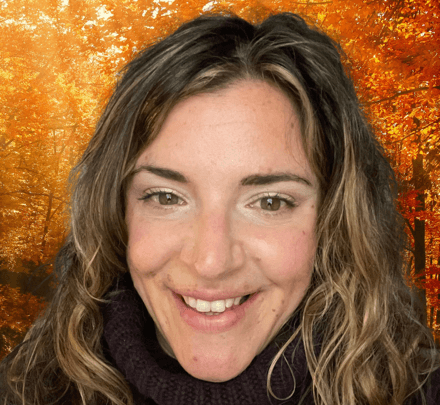
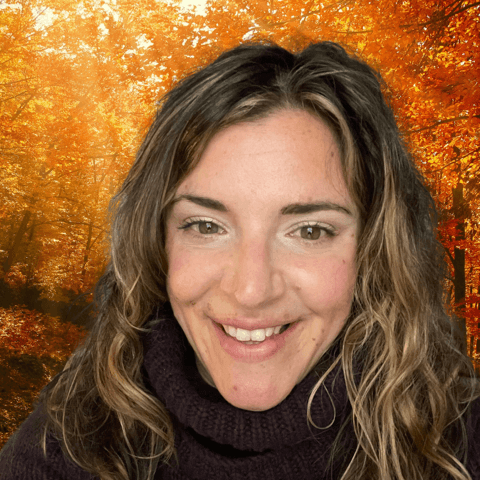
Make pics square

diff --git a/_site/team/index.html b/_site/team/index.html
@@ -82,13 +82,13 @@
   <h1>Our Team</h1>
   <div class="team-grid">
     <div>
-  <img src="/assets/images/denise.jpg" alt="Denise Potter">
+  <img src="/assets/images/denise.png" alt="Denise Potter">
   <h2>Denise Potter, RDN, CSP, CDE</h2>
   <p>Denise has been a Registered Dietitian Nutritionist (RDN) for 31 years. For the past 15 years she has focused on Ketogenic Medical Nutrition Therapy. She has been privileged to speak to, train and educate professionals and individuals around the globe on therapeutic ketogenic therapies. She strives to provide client-centered, personalized therapy, counseling, and education. Denise has a passion for helping underserved populations benefit from the ketogenic diet. She authored <a href="https://www.amazon.com/dp/164152961X/ref=cm_sw_em_r_mt_dp_U_3DWYDbP57JYD4" target="_blank"><em>The Migraine Diet: A Ketogenic Meal Plan for Headache Relief</em></a>. <span class="nobreak"><a href="/denise_cv">View CV</a></span></p>
 </div>
 
     <div>
-  <img src="/assets/images/lisa.jpg" alt="Lisa Vanatta">
+  <img src="/assets/images/lisa.png" alt="Lisa Vanatta">
   <div>
     <h2>Lisa Vanatta, MS, RDN, CSP</h2>
     <p>Lisa has been a ketogenic pediatric clinical dietitian at Barrow Neurological institute at Phoenix Children’s Hospital (PCH) for over 20 years. There she has primarily focused on Newborn Intensive Care, gaining experience in cystic fibrosis, bronchopulmonary dysplasia, and renal disease and is their ketogenic program coordinator. She co-authored <a href="https://www.bethzupeckania.com/product-page/pocket-guide-ketogenic-diet-therapies-for-neurological-disorders" target="_blank"><em>Ketogenic Diet Therapies for Neurological Disorders Pocket Guide</em></a>. <span class="nobreak"><a href="/lisa_cv">View CV</a></span></p>
@@ -96,15 +96,15 @@
 </div>
 
     <div>
-  <img src="/assets/images/monica.jpg" alt="Monica McChesney">
+  <img src="/assets/images/monica.png" alt="Monica McChesney">
   <h2>Monica McChesney MS, RD, LD</h2>
   <p>Monica has been a pediatric clinical dietitian at Children's of Alabama for the past 8 years. She has worked in a variety of settings including inpatient rehabilitation and gastroenterology, but her primary focus is in neurology, specializing in the ketogenic diet. She has worked with a variety of neurological disorders, including epilepsy, glucose transporter type 1 deficiency syndrome, pyruvate dehydrogenase complex deficiency, along with many others. She has a true passion for the diet, as well as for the patients and families she serves. <span class="nobreak"><a href="/assets/files/monica_cv.pdf" target="_blank">View CV</a></span></p>
 </div>
 
     <div>
-  <img src="/assets/images/christine.jpg" alt="Christine Wheeler">
+  <img src="/assets/images/christine.png" alt="Christine Wheeler">
   <h2>Christine Wheeler MS, RDN, CSP</h2>
-  <p>Christi is a Registered Dietitian with board certification in pediatric nutrition. She has worked in the nutritional management of children and adults with a variety of healthcare concerns, specializing in ketogenic therapies since 2010. She is passionate about optimizing health with nutrition and other lifestyle factors. Christi was the Primary Investigator and author of <em>Efficacy and tolerability of a whey-based, medium-chain triglyceride enhanced ketogenic formula in children with refractory epilepsy: A retrospective study</em>. <span class="nobreak"><a href="/assets/files/christine_cv.pdf" target="_blank">View CV</a></span></p>
+  <p>Christine is a Registered Dietitian with board certification in pediatric nutrition. She has worked in the nutritional management of children and adults with a variety of healthcare concerns, specializing in ketogenic therapies since 2010. She is passionate about optimizing health with nutrition and other lifestyle factors. Christi was the Primary Investigator and author of <em>Efficacy and tolerability of a whey-based, medium-chain triglyceride enhanced ketogenic formula in children with refractory epilepsy: A retrospective study</em>. <span class="nobreak"><a href="/assets/files/christine_cv.pdf" target="_blank">View CV</a></span></p>
 </div>
 
     <div>
@@ -116,25 +116,25 @@
     <div>
   <img src="/assets/images/diana.png" alt="Diana Lehner-Gulotta">
   <h2>Diana Lehner-Gulotta, RDN, CNSC</h2>
-  <p>Diana is a registered dietitian at the University of Virginia Health System specializing in ketogenic diets for epilepsy and the nutritional care of pediatric neurology patients. She also has experience implementing ketogenic diets for adolescents and adults with multiple sclerosis, resulting in several peer-reviewed publications. As a Certified Nutrition Support Clinician, she enjoys working with medically complex clients. She has served consecutively on the board of both her local and state chapters of the Academy of Nutrition and Dietetics. <span class="nobreak"><a href="/assets/files/diana_cv.pdf">View CV</a></span></p>
+  <p>Diana is a registered dietitian at the University of Virginia Health System specializing in ketogenic diets for epilepsy and the nutritional care of pediatric neurology patients. She also has experience implementing ketogenic diets for adolescents and adults with multiple sclerosis, resulting in several peer-reviewed publications. As a Certified Nutrition Support Clinician, she enjoys working with medically complex clients. She has served consecutively on the board of both her local and state chapters of the Academy of Nutrition and Dietetics. <span class="nobreak"><a href="/assets/files/diana_cv.pdf" target="_blank">View CV</a></span></p>
 </div>
 
     <div>
   <img src="/assets/images/erin.png" alt="Erin K. Waranch">
   <h2>Erin K. Waranch, MS, RDN, LD</h2>
-  <p>Erin has been a pediatric clinical dietitian for the past 7 years. She specializes in ketogenic diet therapy for conditions like pediatric epilepsy, infantile spasms, glut-1 deficiency and pyruvate dehydrogenase deficiency. Erin enjoys individualizing nutrition plans for her patients to help them be as successful as possible. She has a passion for teaching people about how nutrition can improve long term health outcomes. <span class="nobreak"><a href="/assets/files/erin_cv.pdf">View CV</a></span></p>
+  <p>Erin has been a pediatric clinical dietitian for the past 7 years. She specializes in ketogenic diet therapy for conditions like pediatric epilepsy, infantile spasms, glut-1 deficiency and pyruvate dehydrogenase deficiency. Erin enjoys individualizing nutrition plans for her patients to help them be as successful as possible. She has a passion for teaching people about how nutrition can improve long term health outcomes. <span class="nobreak"><a href="/assets/files/erin_cv.pdf" target="_blank">View CV</a></span></p>
 </div>
 
     <div>
   <img src="/assets/images/jaclyn.png" alt="Jaclyn A. Makovich">
   <h2>Jaclyn A. Makovich, RD, LD</h2>
-  <p>Jaclyn has been a Clinical Dietitian at the Medical University of South Carolina since 2016 and a Registered Dietitian for 10 years. She has provided nutrition care in both adult and pediatric in different specialty areas such as ketogenic therapy, gastroenterology, nutrition support and more. She now works solely with the ketogenic therapy in pediatric and adult patients and loves to see the improvements in peoples’ quality of life.  Jaclyn specializes in working with patients and their families to personalize ketogenic therapy to meet their lifestyle and individual needs. <span class="nobreak"><a href="/assets/files/jaclyn_cv.pdf">View CV</a></span></p>
+  <p>Jaclyn has been a Clinical Dietitian at the Medical University of South Carolina since 2016 and a Registered Dietitian for 10 years. She has provided nutrition care in both adult and pediatric in different specialty areas such as ketogenic therapy, gastroenterology, nutrition support and more. She now works solely with the ketogenic therapy in pediatric and adult patients and loves to see the improvements in peoples’ quality of life.  Jaclyn specializes in working with patients and their families to personalize ketogenic therapy to meet their lifestyle and individual needs. <span class="nobreak"><a href="/assets/files/jaclyn_cv.pdf" target="_blank">View CV</a></span></p>
 </div>
 
     <div>
   <img src="/assets/images/lauren.png" alt="Lauren Kronisch">
   <h2>Lauren Kronisch, MS, RDN, LD</h2>
-  <p>Lauren been has specialized in providing Ketogenic Medical Nutrition Therapy for over eight years treating people of all ages with conditions including epilepsy, pyruvate dehydrogenase deficiency complex, glucose transport deficiency syndrome, Rett syndrome and related disorders. For the last six years, she has worked in a top 10 children's hospital in the ketogenic diet clinic setting as well as in various hospital units, including intensive care and neurology intensive care. She also has extensive experience in treating children with food allergies. <span class="nobreak"><a href="/assets/files/lauren_cv.pdf">View CV</a></span></p>
+  <p>Lauren been has specialized in providing Ketogenic Medical Nutrition Therapy for over eight years treating people of all ages with conditions including epilepsy, pyruvate dehydrogenase deficiency complex, glucose transport deficiency syndrome, Rett syndrome and related disorders. For the last six years, she has worked in a top 10 children's hospital in the ketogenic diet clinic setting as well as in various hospital units, including intensive care and neurology intensive care. She also has extensive experience in treating children with food allergies. <span class="nobreak"><a href="/assets/files/lauren_cv.pdf" target="_blank">View CV</a></span></p>
 </div>
 
   </div>

diff --git a/_includes/christine.html b/_includes/christine.html
@@ -1,5 +1,5 @@
 <div>
-  <img src="{{ '/assets/images/christine.jpg' | relative_url }}" alt="Christine Wheeler">
+  <img src="{{ '/assets/images/christine.png' | relative_url }}" alt="Christine Wheeler">
   <h2>Christine Wheeler MS, RDN, CSP</h2>
-  <p>Christi is a Registered Dietitian with board certification in pediatric nutrition. She has worked in the nutritional management of children and adults with a variety of healthcare concerns, specializing in ketogenic therapies since 2010. She is passionate about optimizing health with nutrition and other lifestyle factors. Christi was the Primary Investigator and author of <em>Efficacy and tolerability of a whey-based, medium-chain triglyceride enhanced ketogenic formula in children with refractory epilepsy: A retrospective study</em>. <span class="nobreak"><a href="{{ '/assets/files/christine_cv.pdf' | relative_url }}" target="_blank">View CV</a></span></p>
+  <p>Christine is a Registered Dietitian with board certification in pediatric nutrition. She has worked in the nutritional management of children and adults with a variety of healthcare concerns, specializing in ketogenic therapies since 2010. She is passionate about optimizing health with nutrition and other lifestyle factors. Christi was the Primary Investigator and author of <em>Efficacy and tolerability of a whey-based, medium-chain triglyceride enhanced ketogenic formula in children with refractory epilepsy: A retrospective study</em>. <span class="nobreak"><a href="{{ '/assets/files/christine_cv.pdf' | relative_url }}" target="_blank">View CV</a></span></p>
 </div>

diff --git a/_includes/jaclyn.html b/_includes/jaclyn.html
@@ -1,5 +1,5 @@
 <div>
   <img src="{{ '/assets/images/jaclyn.png' | relative_url }}" alt="Jaclyn A. Makovich">
   <h2>Jaclyn A. Makovich, RD, LD</h2>
-  <p>Jaclyn has been a Clinical Dietitian at the Medical University of South Carolina since 2016 and a Registered Dietitian for 10 years. She has provided nutrition care in both adult and pediatric in different specialty areas such as ketogenic therapy, gastroenterology, nutrition support and more. She now works solely with the ketogenic therapy in pediatric and adult patients and loves to see the improvements in peoples’ quality of life.  Jaclyn specializes in working with patients and their families to personalize ketogenic therapy to meet their lifestyle and individual needs. <span class="nobreak"><a href="{{ '/assets/files/jaclyn_cv.pdf' | relative_url }}">View CV</a></span></p>
+  <p>Jaclyn has been a Clinical Dietitian at the Medical University of South Carolina since 2016 and a Registered Dietitian for 10 years. She has provided nutrition care in both adult and pediatric in different specialty areas such as ketogenic therapy, gastroenterology, nutrition support and more. She now works solely with the ketogenic therapy in pediatric and adult patients and loves to see the improvements in peoples’ quality of life.  Jaclyn specializes in working with patients and their families to personalize ketogenic therapy to meet their lifestyle and individual needs. <span class="nobreak"><a href="{{ '/assets/files/jaclyn_cv.pdf' | relative_url }}" target="_blank">View CV</a></span></p>
 </div>

diff --git a/_includes/lauren.html b/_includes/lauren.html
@@ -1,5 +1,5 @@
 <div>
   <img src="{{ '/assets/images/lauren.png' | relative_url }}" alt="Lauren Kronisch">
   <h2>Lauren Kronisch, MS, RDN, LD</h2>
-  <p>Lauren been has specialized in providing Ketogenic Medical Nutrition Therapy for over eight years treating people of all ages with conditions including epilepsy, pyruvate dehydrogenase deficiency complex, glucose transport deficiency syndrome, Rett syndrome and related disorders. For the last six years, she has worked in a top 10 children's hospital in the ketogenic diet clinic setting as well as in various hospital units, including intensive care and neurology intensive care. She also has extensive experience in treating children with food allergies. <span class="nobreak"><a href="{{ '/assets/files/lauren_cv.pdf' | relative_url }}">View CV</a></span></p>
+  <p>Lauren been has specialized in providing Ketogenic Medical Nutrition Therapy for over eight years treating people of all ages with conditions including epilepsy, pyruvate dehydrogenase deficiency complex, glucose transport deficiency syndrome, Rett syndrome and related disorders. For the last six years, she has worked in a top 10 children's hospital in the ketogenic diet clinic setting as well as in various hospital units, including intensive care and neurology intensive care. She also has extensive experience in treating children with food allergies. <span class="nobreak"><a href="{{ '/assets/files/lauren_cv.pdf' | relative_url }}" target="_blank">View CV</a></span></p>
 </div>

diff --git a/_includes/diana.html b/_includes/diana.html
@@ -1,5 +1,5 @@
 <div>
   <img src="{{ '/assets/images/diana.png' | relative_url }}" alt="Diana Lehner-Gulotta">
   <h2>Diana Lehner-Gulotta, RDN, CNSC</h2>
-  <p>Diana is a registered dietitian at the University of Virginia Health System specializing in ketogenic diets for epilepsy and the nutritional care of pediatric neurology patients. She also has experience implementing ketogenic diets for adolescents and adults with multiple sclerosis, resulting in several peer-reviewed publications. As a Certified Nutrition Support Clinician, she enjoys working with medically complex clients. She has served consecutively on the board of both her local and state chapters of the Academy of Nutrition and Dietetics. <span class="nobreak"><a href="{{ '/assets/files/diana_cv.pdf' | relative_url }}">View CV</a></span></p>
+  <p>Diana is a registered dietitian at the University of Virginia Health System specializing in ketogenic diets for epilepsy and the nutritional care of pediatric neurology patients. She also has experience implementing ketogenic diets for adolescents and adults with multiple sclerosis, resulting in several peer-reviewed publications. As a Certified Nutrition Support Clinician, she enjoys working with medically complex clients. She has served consecutively on the board of both her local and state chapters of the Academy of Nutrition and Dietetics. <span class="nobreak"><a href="{{ '/assets/files/diana_cv.pdf' | relative_url }}" target="_blank">View CV</a></span></p>
 </div>

diff --git a/_includes/erin.html b/_includes/erin.html
@@ -1,5 +1,5 @@
 <div>
   <img src="{{ '/assets/images/erin.png' | relative_url }}" alt="Erin K. Waranch">
   <h2>Erin K. Waranch, MS, RDN, LD</h2>
-  <p>Erin has been a pediatric clinical dietitian for the past 7 years. She specializes in ketogenic diet therapy for conditions like pediatric epilepsy, infantile spasms, glut-1 deficiency and pyruvate dehydrogenase deficiency. Erin enjoys individualizing nutrition plans for her patients to help them be as successful as possible. She has a passion for teaching people about how nutrition can improve long term health outcomes. <span class="nobreak"><a href="{{ '/assets/files/erin_cv.pdf' | relative_url }}">View CV</a></span></p>
+  <p>Erin has been a pediatric clinical dietitian for the past 7 years. She specializes in ketogenic diet therapy for conditions like pediatric epilepsy, infantile spasms, glut-1 deficiency and pyruvate dehydrogenase deficiency. Erin enjoys individualizing nutrition plans for her patients to help them be as successful as possible. She has a passion for teaching people about how nutrition can improve long term health outcomes. <span class="nobreak"><a href="{{ '/assets/files/erin_cv.pdf' | relative_url }}" target="_blank">View CV</a></span></p>
 </div>

diff --git a/_includes/denise.html b/_includes/denise.html
@@ -1,5 +1,5 @@
 <div>
-  <img src="{{ '/assets/images/denise.jpg' | relative_url }}" alt="Denise Potter">
+  <img src="{{ '/assets/images/denise.png' | relative_url }}" alt="Denise Potter">
   <h2>Denise Potter, RDN, CSP, CDE</h2>
   <p>Denise has been a Registered Dietitian Nutritionist (RDN) for 31 years. For the past 15 years she has focused on Ketogenic Medical Nutrition Therapy. She has been privileged to speak to, train and educate professionals and individuals around the globe on therapeutic ketogenic therapies. She strives to provide client-centered, personalized therapy, counseling, and education. Denise has a passion for helping underserved populations benefit from the ketogenic diet. She authored <a href="https://www.amazon.com/dp/164152961X/ref=cm_sw_em_r_mt_dp_U_3DWYDbP57JYD4" target="_blank"><em>The Migraine Diet: A Ketogenic Meal Plan for Headache Relief</em></a>. <span class="nobreak"><a href="{{ '/denise_cv' | relative_url }}">View CV</a></span></p>
 </div>

diff --git a/_includes/monica.html b/_includes/monica.html
@@ -1,5 +1,5 @@
 <div>
-  <img src="{{ '/assets/images/monica.jpg' | relative_url }}" alt="Monica McChesney">
+  <img src="{{ '/assets/images/monica.png' | relative_url }}" alt="Monica McChesney">
   <h2>Monica McChesney MS, RD, LD</h2>
   <p>Monica has been a pediatric clinical dietitian at Children's of Alabama for the past 8 years. She has worked in a variety of settings including inpatient rehabilitation and gastroenterology, but her primary focus is in neurology, specializing in the ketogenic diet. She has worked with a variety of neurological disorders, including epilepsy, glucose transporter type 1 deficiency syndrome, pyruvate dehydrogenase complex deficiency, along with many others. She has a true passion for the diet, as well as for the patients and families she serves. <span class="nobreak"><a href="{{ '/assets/files/monica_cv.pdf' | relative_url }}" target="_blank">View CV</a></span></p>
 </div>

diff --git a/_includes/lisa.html b/_includes/lisa.html
@@ -1,5 +1,5 @@
 <div>
-  <img src="{{ '/assets/images/lisa.jpg' | relative_url }}" alt="Lisa Vanatta">
+  <img src="{{ '/assets/images/lisa.png' | relative_url }}" alt="Lisa Vanatta">
   <div>
     <h2>Lisa Vanatta, MS, RDN, CSP</h2>
     <p>Lisa has been a ketogenic pediatric clinical dietitian at Barrow Neurological institute at Phoenix Children’s Hospital (PCH) for over 20 years. There she has primarily focused on Newborn Intensive Care, gaining experience in cystic fibrosis, bronchopulmonary dysplasia, and renal disease and is their ketogenic program coordinator. She co-authored <a href="https://www.bethzupeckania.com/product-page/pocket-guide-ketogenic-diet-therapies-for-neurological-disorders" target="_blank"><em>Ketogenic Diet Therapies for Neurological Disorders Pocket Guide</em></a>. <span class="nobreak"><a href="{{ '/lisa_cv' | relative_url }}">View CV</a></span></p>
